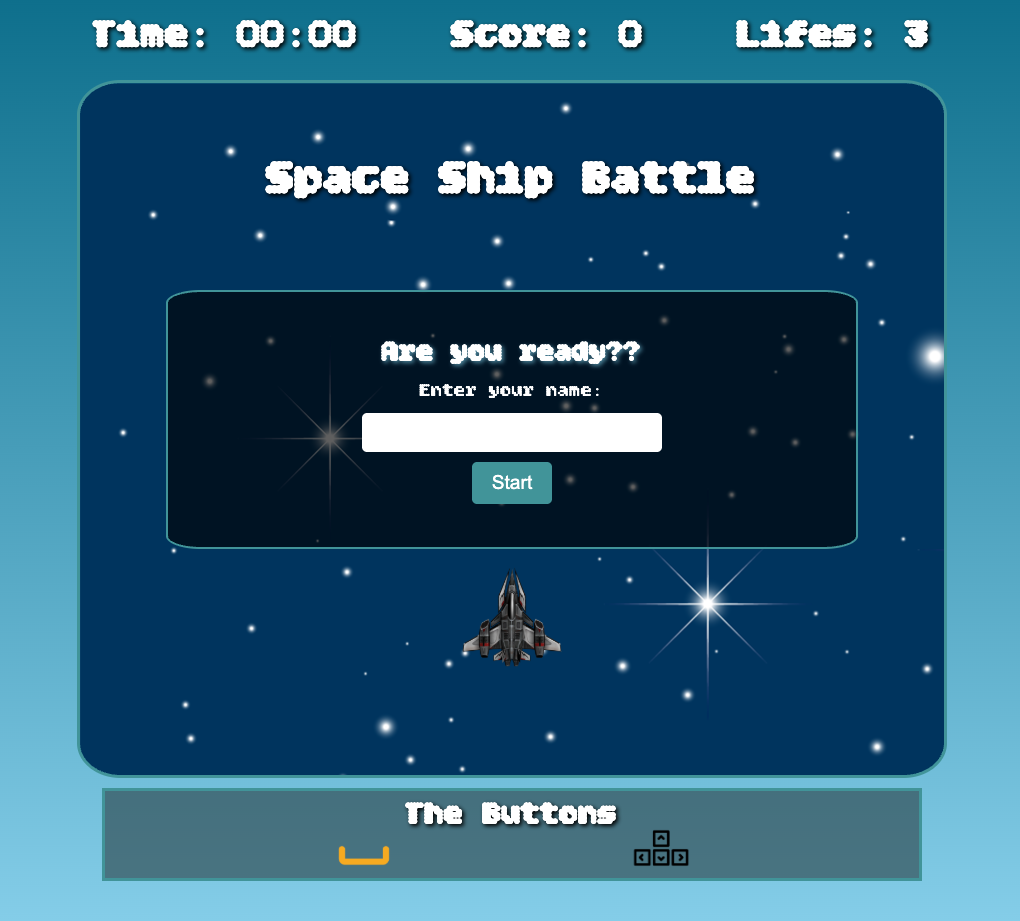
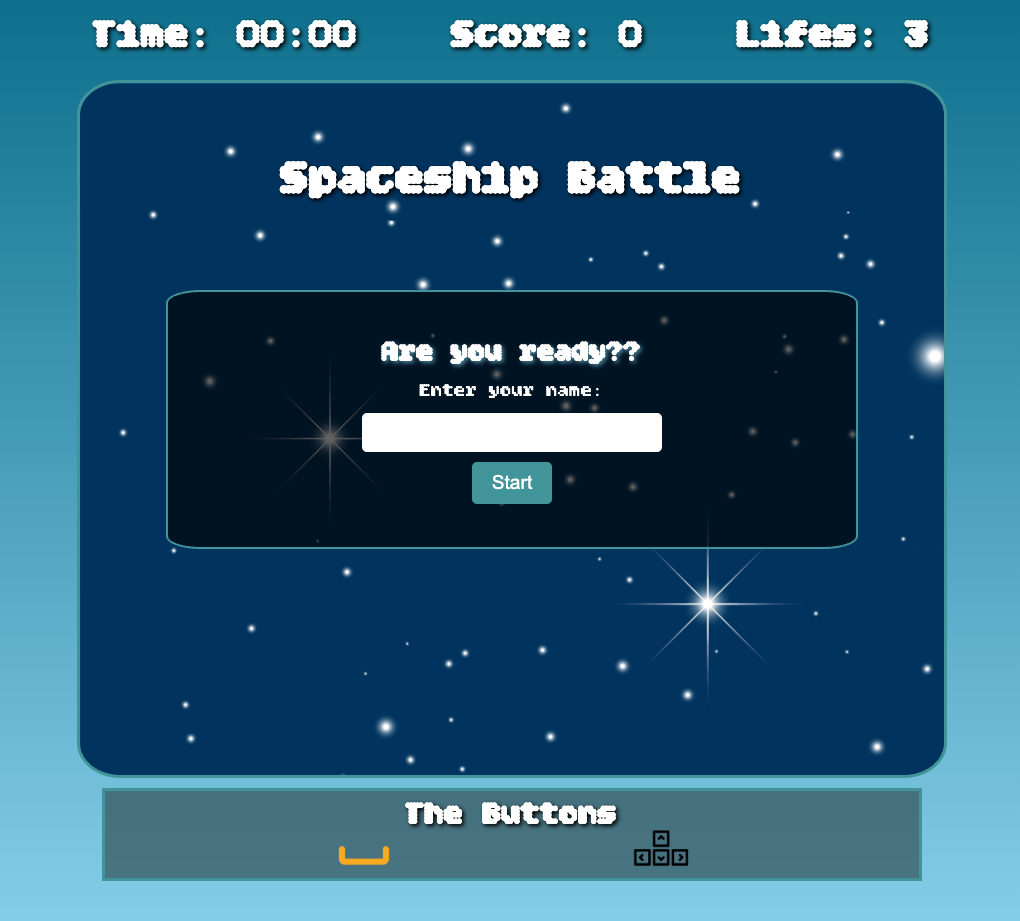
Change the title

Changed region(s): [[0.2431, 0.152, 0.7598, 0.2128], [0.4559, 0.608, 0.5471, 0.7296]]

diff --git a/index.html b/index.html
@@ -3,7 +3,7 @@
 <head>
     <meta charset="UTF-8">
     <meta name="viewport" content="width=device-width, initial-scale=1.0">
-    <title>Space Ship Battle</title>
+    <title>Spaceship Battle</title>
     <link rel="stylesheet" href="./dist/css/main.min.css">
     <link rel="preconnect" href="https://fonts.googleapis.com">
     <link rel="preconnect" href="https://fonts.gstatic.com" crossorigin>
@@ -22,7 +22,7 @@
         <h2 class="header">Lifes: <span id="lifes"></span></h2>
     </header>
     <main id="main-screen">
-        <h1 id="game-title">Space Ship Battle</h1>
+        <h1 id="game-title">Spaceship Battle</h1>
         <section id="start-game">
             <h2>Are you ready??</h2>
             <label for="user-name">Enter your name:</label>

diff --git a/README.md b/README.md
@@ -1,5 +1,5 @@
 
-# Space Ship Battle
+# Spaceship Battle
 
 ### This is my first project in Ironhack's bootcamp.
 > The project was to create a game using HTML, CSS and JavaScript.
